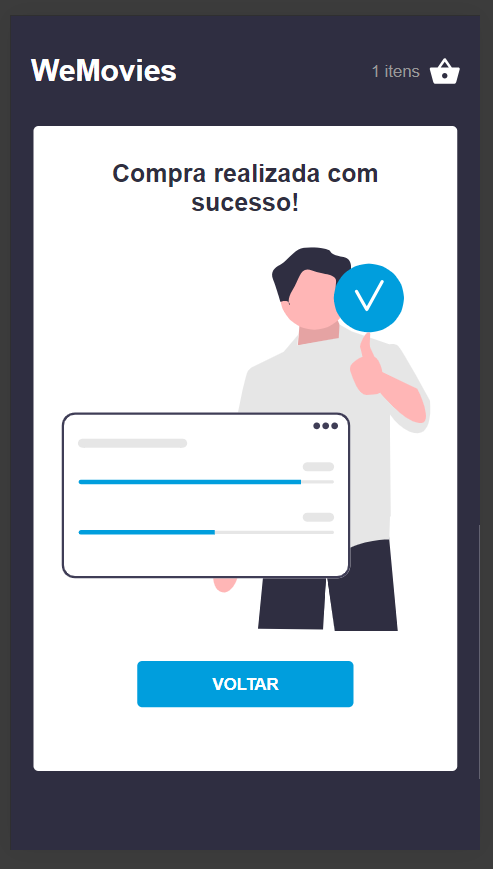
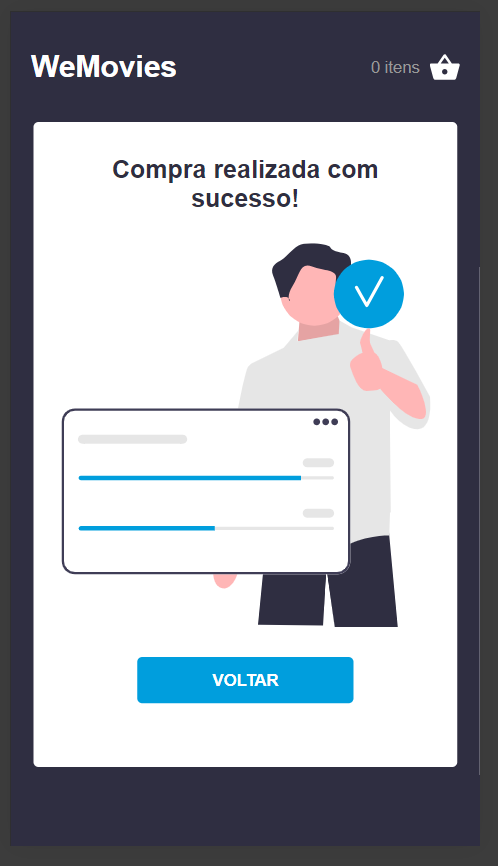
fix: adjust context

diff --git a/src/context/cartContext.tsx b/src/context/cartContext.tsx
@@ -11,6 +11,9 @@ type ICart = {
   AddItemCart: (newItem: Product) => void
   RemoveItemCart: (Item: Product) => void
   removeProductFromCart: (Item: Product) => void
+  setCart: React.Dispatch<React.SetStateAction<ProductWithTotal[]>>
+  setCartItemCount: React.Dispatch<React.SetStateAction<number>>
+  setTotal: React.Dispatch<React.SetStateAction<number>>
 }
 
 export const CartContext = createContext<ICart>({} as ICart)
@@ -23,6 +26,9 @@ function CartProvider({ children }: React.PropsWithChildren) {
     total,
     cartItemCount,
     removeProductFromCart,
+    setCart,
+    setCartItemCount,
+    setTotal,
   } = useCart()
 
   return (
@@ -34,6 +40,9 @@ function CartProvider({ children }: React.PropsWithChildren) {
         RemoveItemCart,
         cartItemCount,
         removeProductFromCart,
+        setCart,
+        setCartItemCount,
+        setTotal,
       }}
     >
       {children}

diff --git a/src/Pages/Cart/index.tsx b/src/Pages/Cart/index.tsx
@@ -9,10 +9,21 @@ import { Empty } from "../../components/Empty"
 import { useMutationFinalizePurchase } from "../../service/mutate/useMutationFinalizePurchase"
 
 export const Cart = () => {
-  const { cart: DataCart, total } = useCartContext()
+  const {
+    cart: DataCart,
+    total,
+    setCart,
+    setCartItemCount,
+    setTotal,
+  } = useCartContext()
   const navigate = useNavigate()
   const { mutate } = useMutationFinalizePurchase({
-    onSuccess: () => navigate(PATH.PURCHASEMADE),
+    onSuccess: () => {
+      setCart([])
+      setCartItemCount(0)
+      setTotal(0)
+      navigate(PATH.PURCHASEMADE)
+    },
   })
 
   if (DataCart.length === 0) {

diff --git a/src/context/useCart.ts b/src/context/useCart.ts
@@ -78,5 +78,8 @@ export const useCart = () => {
     cart,
     cartItemCount,
     removeProductFromCart,
+    setCart,
+    setTotal,
+    setCartItemCount,
   }
 }
